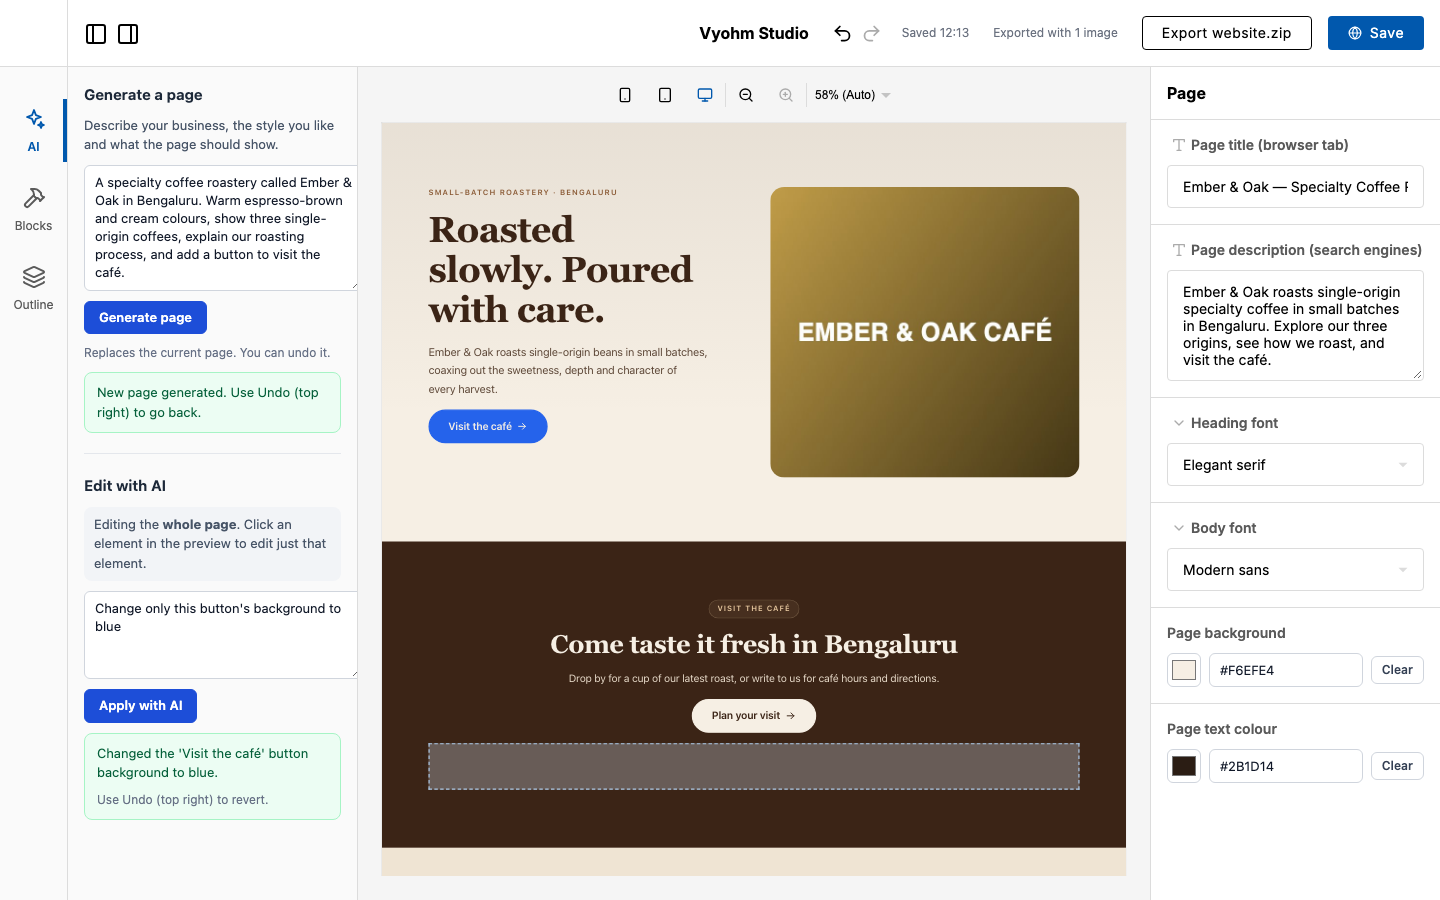
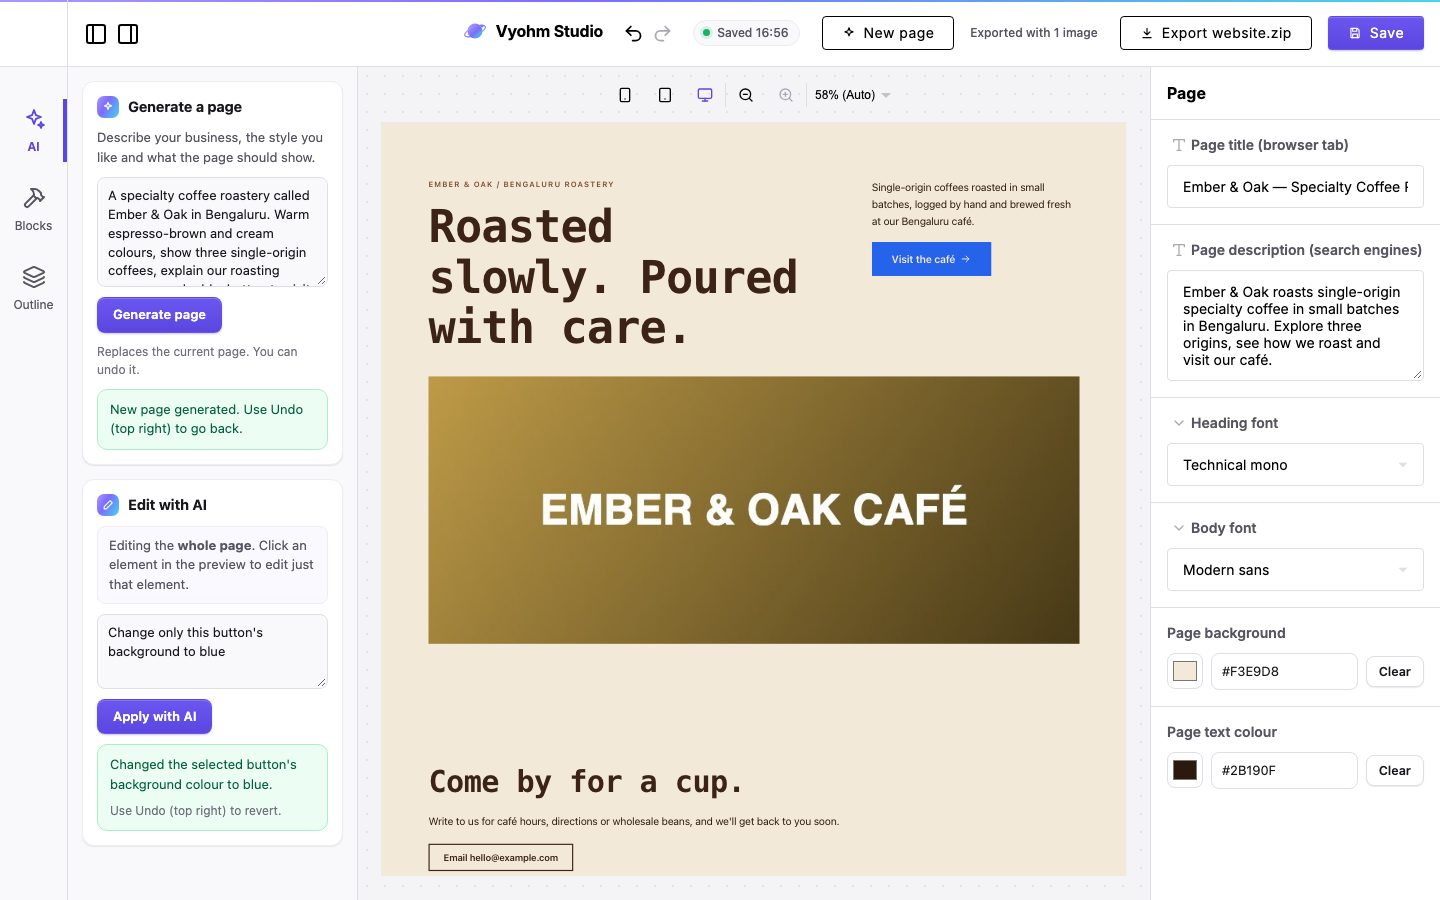
Final export from the final code (66da270): new website.zip, logs and screenshots
- Real end-to-end run: Claude generation (44 s, direction 3 "Kiln Ledger"),
  manual edits (headline, image upload through the crop dialog, section
  reorder, mobile h1 34 px), AI edit (2 s, one operation), export
- verify-export: contents OK, npm ci 30 packages, build PASS
- Exported site served on its own: desktop 1280 and phone 390 checks pass
  (edits, blue button, uploaded image, order, mobile override, no overflow)
- Editor screenshots retaken in the new violet look (editor, AI edit, mobile,
  container, outline, refused drag); exported-site screenshots updated
- TESTING.md: final-export row and figures updated; fixed a split table

diff --git a/docs/TESTING.md b/docs/TESTING.md
@@ -33,7 +33,7 @@ npm run verify-export -- evidence/website.zip
 |---|---|---|
 | Browser scenarios (18 runs, 93 checks, including real mouse drags and image cropping) | **93 passed, 0 failed** | [browser-tests.log](../evidence/browser-tests.log) |
 | Full flow: generate → manual edits → mobile override → AI edit → export | Completed | [full-flow.log](../evidence/full-flow.log) |
-| Export verification: fresh folder, `npm ci` + `npm run build` | **PASS** (`npm ci` 5 s, build 5 s) | [export-verify.log](../evidence/export-verify.log) |
+| Export verification: fresh folder, `npm ci` + `npm run build` | **PASS** (`npm ci`: 30 packages in 3 s; build compiled in 1.4 s) | [export-verify.log](../evidence/export-verify.log) |
 | Exported site served with `npm run start`, checked at 1280 px and 390 px | Matches the editor; no overflow | [exported-site.log](../evidence/exported-site.log) |
 | `tsc --noEmit`, `eslint`, `next build` of the builder | Clean | — |
 
@@ -111,7 +111,7 @@ The first version said *"Not moved"* after the Section drop, but the page had ac
 | Settings panel: Paragraph *Style* → Badge | Pill label | `variant: "badge"` |
 | Settings panel: Section *Background style* → Soft gradient, then Undo | Gradient, then back to solid | `vs-section--gradient` applied; Undo → `solid` |
 | Editor preview | No scroll fade-in or hover lift inside the editor | 0 live sections / 0 live containers |
-| Exported coffee page | Live effects on; generated options rendered | 4 live sections, 3 `card` surfaces, 11 styled paragraphs, 2 arrow buttons ([exported-site.log](../evidence/exported-site.log)) |
+| Exported coffee page | Live effects on; generated options rendered | 6 live sections, 3 `outline` surfaces, 7 styled paragraphs, 1 arrow button ([exported-site.log](../evidence/exported-site.log)) |
 | Old pages without the new settings (test fixture) | Still load and validate | `ai-failures` uses the older fixture and passes |
 
 ## AI generation runs (real model, `claude-opus-5-5`, effort `medium`)
@@ -123,9 +123,9 @@ The first version said *"Not moved"* after the Section drop, but the page had ac
 | Still Point, yoga studio, sage green and cream, three class types, booking button | 22 s | Sections `home, classes, about, contact`; 3 class types, each with a booking button |
 | Ember & Oak, coffee roastery in Bengaluru, espresso brown and cream, three coffees, roasting process, café button | 20 s | Brown/cream theme, serif headings (before the design system) |
 | Northline, minimal architecture studio in Pune, white/charcoal + terracotta, three services, consultation button | 31 s | *With the design system:* gradient hero, 7 eyebrow labels, 4 lead paragraphs, 3 `outline` service cards, charcoal CTA band, 2 arrow buttons |
-| Ember & Oak again, for the final export | 42 s | *With the design system:* badge labels, 3 `card` coffee cards, espresso-brown CTA band ([full-flow.log](../evidence/full-flow.log), [screenshot](screenshots/exported-full-page.png)) |
-
+| Ember & Oak again, for an earlier export (12:13) | 42 s | *With the design system:* badge labels, 3 `card` coffee cards, espresso-brown CTA band |
 | Spoke & Chain, bicycle repair shop and café corner in Pune, green and cream | 35 s | *With design directions:* Claude wrote 4 directions and the server picked number 1, "Garden Workshop" (cream `#F6F1E3`, green `#2F6B3A`, rounded headings, hero layout `split-image-left`). The page followed it: hero image on the left, then 6 sections using different patterns (card grid, two-up, steps, café row with gradient, green contact band). Server log: `[ai] generated page with claude-opus-5-5 in 35367 ms — direction 1: Garden Workshop …` |
+| Ember & Oak, **final export** on the final code (16:56) | 44 s | *With design directions:* direction 3, "Kiln Ledger" (cream `#F3E9D8`, espresso `#3B2316`, mono headings, hero layout `asymmetric-big-type`). 6 sections: big-type hero with a wide image, 3 `outline` coffee cards with eyebrow labels, a dark espresso band for the 4 roast steps, a statement, a café section. Then the AI edit took 2 s (1 operation). [full-flow.log](../evidence/full-flow.log), [screenshot](screenshots/exported-full-page.png) |
 
 Generation got slower (20–27 s → 31–42 s) after the design system was added, because Claude's JSON now includes more style fields. Design directions add a few lines of planning to each answer (35 s in the run above).
 
@@ -149,7 +149,7 @@ The browser tests are not affected by design directions: every generation scenar
 | Input | Expected | Actual (observed) |
 |---|---|---|
 | Edit the headline and upload a JPEG; then close and reopen the browser (same Chrome profile) | Headline and image restored | Headline "Saved headline" restored; image saved as `asset:74d5cd9659ff4139` (not a `blob:` URL) and visible after reload |
-| Export after uploading | Image file in `public/assets/`, portable path in `page.json` | `public/assets/0305303b48234b14.jpg`, `"src": "/assets/0305303b48234b14.jpg"`; no `asset:` or `blob:` left; loads when served |
+| Export after uploading | Image file in `public/assets/`, portable path in `page.json` | `public/assets/fcf7825b1a504f7b.jpg`, `"src": "/assets/fcf7825b1a504f7b.jpg"`; no `asset:` or `blob:` left; loads when served |
 
 ## Image cropping and image links
 
@@ -179,15 +179,15 @@ The first run of the rotation step failed: the result was 506 × 900, only part 
 | Switch to the Mobile preview | 390 px wide, columns stack, no horizontal overflow | 390 px, 1 column, no overflow |
 | No override set | Headings scale down on phones | 64 px heading shows at 48 px (75 %) |
 | Set the heading's mobile font size to 30 | Phone 30 px, desktop unchanged | Phone 30 px, desktop 64 px; Undo → override removed; Redo → 30 |
-| Exported site (coffee page) at 390 px | Override and stacking preserved | h1 34 px on phone / 62 px desktop, 1 column / 2 columns, no overflow |
+| Exported site (coffee page) at 390 px | Override and stacking preserved | h1 34 px on phone / 78 px desktop, 1 column / 2 columns, no overflow |
 
 ## Export
 
 | Input | Expected | Actual (observed) |
 |---|---|---|
-| [evidence/website.zip](../evidence/website.zip), produced after a generation, manual edits, a mobile override and an AI edit | Fresh-folder `npm ci`, `npm run build`, `npm run start` work without the builder or an API key | `npm ci`: 30 packages in 5 s. `npm run build`: compiled, `/` prerendered as static. `npm run start` serves the page. |
+| [evidence/website.zip](../evidence/website.zip), produced after a generation, manual edits, a mobile override and an AI edit | Fresh-folder `npm ci`, `npm run build`, `npm run start` work without the builder or an API key | `npm ci`: 30 packages in 3 s. `npm run build`: compiled, `/` prerendered as static. `npm run start` serves the page and the uploaded image (HTTP 200, `image/jpeg`). |
 | ZIP contents | No secrets, no editor-only references | No `.env`, no `sk-ant` strings, no `asset:` or `blob:` in `data/page.json` (checked by [verify-export.sh](../scripts/verify-export.sh)) |
-| Served export vs editor | Same text, links, order, styles | Title, headline, blue `#2563eb` button with `#contact` link, uploaded image, section order `home, contact, coffees, process` all as edited ([screenshots](screenshots/)) |
+| Served export vs editor | Same text, links, order, styles | Title, headline, blue `#2563eb` button with `#contact` link, uploaded image, section order `home, contact, coffees, process, philosophy, cafe` all as edited ([screenshots](screenshots/)) |
 
 ## Not tested
 

diff --git a/README.md b/README.md
@@ -258,7 +258,7 @@ The settings panel of a section or container repeats its rule in a short note.
 2. Keep **Selected** to change only that element (and what is inside it), or choose **Whole page**.
 3. **Type an instruction,** for example *"Change only this button's background to blue"*. **Use suggestion** fills in an example that fits the selected element.
 4. Click **Apply with AI** (or press ⌘Enter). Edits take about 3 seconds.
-5. A green box says what changed: *"Changed the hero button's background colour to blue. Use Undo (top right) to revert."* The element stays selected, and its settings panel shows the new value (`#2563eb`).
+5. A green box says what changed: *"Changed the hero button's background to blue. Use Undo (top right) to revert."* (Claude writes this summary itself, so the wording varies a little.) The element stays selected, and its settings panel shows the new value (`#2563eb`).
 
 What the AI can do: change any setting or text, add, delete or move elements, and change page settings (fonts, colours, title).
 
@@ -351,7 +351,7 @@ Proof: [export-verify.log](evidence/export-verify.log), [exported-site.log](evid
 
 | Requirement | Status | Evidence / notes |
 |---|---|---|
-| **AI generation** from a fresh prompt via a real model call: relevant copy, requested theme, multi-section page | Working | Seven briefs generated with the real model (clothing, bakery, yoga, architecture, coffee ×2, bicycle shop), 20–42 s each. Each run follows the requested colours and item counts. [full-flow.log](evidence/full-flow.log), [TESTING.md](docs/TESTING.md#ai-generation-runs-real-model-claude-opus-5-5-effort-medium) |
+| **AI generation** from a fresh prompt via a real model call: relevant copy, requested theme, multi-section page | Working | Real-model runs for many briefs (clothing, bakery, yoga, architecture, coffee, bicycle shop, fintech app, gym), 20–45 s each, including the final export run. Each run follows the requested colours and item counts. [full-flow.log](evidence/full-flow.log), [TESTING.md](docs/TESTING.md#ai-generation-runs-real-model-claude-opus-5-5-effort-medium) |
 | Varied designs for the same kind of brief | Working | Claude proposes four design directions and builds the one the server picks at random ([7.2](#72-generating-a-page)). 8 real runs in [design-variety.log](evidence/design-variety.log): [same brief three times](docs/screenshots/design-variety-same-brief.png), [four different briefs](docs/screenshots/design-variety-briefs.png). |
 | Generation loading and failure states | Working | Build steps, timer and Cancel. Malformed answers and API errors are rejected and the page is unchanged (`ai-failures`, server error cases in TESTING.md). |
 | Six element types; container with 1 or 2 columns and nested elements | Working | [blocks.tsx](components/site/blocks.tsx), [puck-config.tsx](components/editor/puck-config.tsx) |
@@ -556,9 +556,9 @@ Generated pages share a small design system. The ideas came from the **21st.dev*
 
 All tints use `color-mix()` with `currentColor`, so they work with any brand colour and on dark or light pages. On the exported site, items fade up as they scroll into view (CSS scroll-driven animation) and cards lift on hover. Both are off inside the editor and for visitors who prefer reduced motion. The generation prompt explains each option so Claude uses them where they fit the chosen direction, not everywhere.
 
-<p align="center"><img src="docs/screenshots/exported-design-system.png" alt="Exported page using the design system: eyebrow label, lead text, arrow button, brand-colour band with a badge, and three card surfaces" width="640"></p>
+<p align="center"><img src="docs/screenshots/exported-design-system.png" alt="Exported page using the design system: eyebrow labels, an arrow button, and three outline cards with corner marks" width="640"></p>
 
-*An exported page (Ember & Oak, a coffee roastery): eyebrow label and lead text in the hero, arrow buttons, a brand-colour band with a badge, and three `card` surfaces. [See the full page](docs/screenshots/exported-full-page.png).*
+*The final exported page ([evidence/website.zip](evidence/website.zip)): Ember & Oak, a coffee roastery, built in the "Kiln Ledger" direction (mono headings, sharp corners, big-type hero). It shows eyebrow labels, an arrow button (turned blue by the AI edit), and three `outline` cards with "+" corner marks. [See the full page](docs/screenshots/exported-full-page.png).*
 
 ---
 
